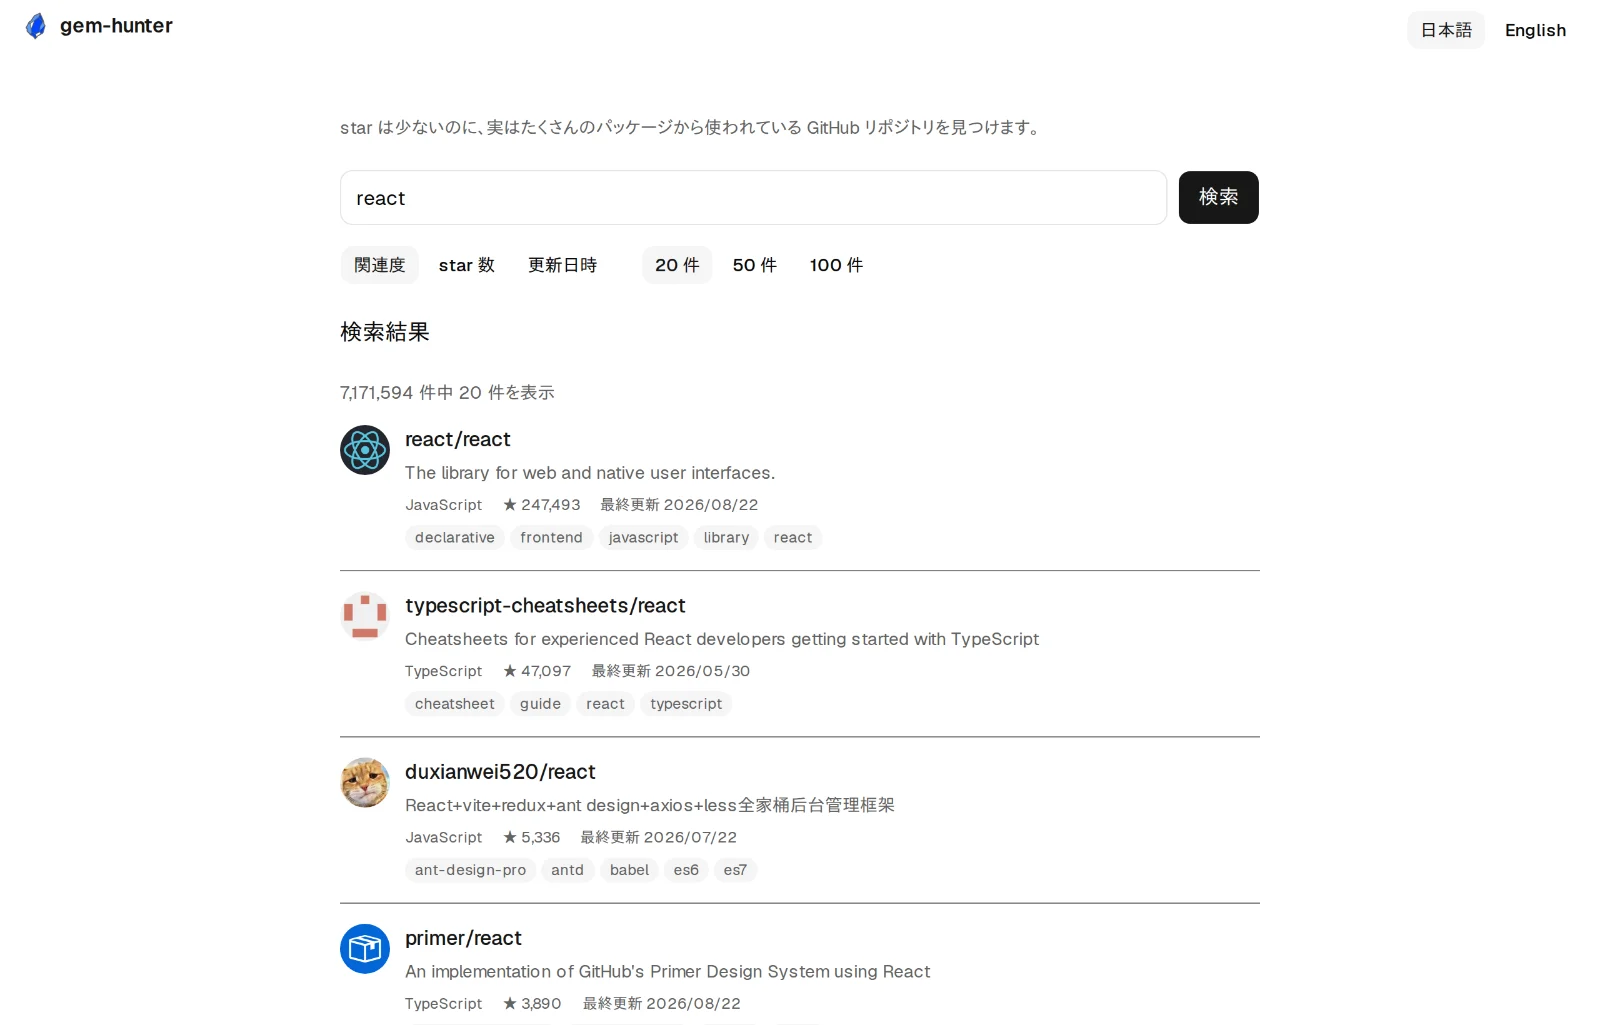
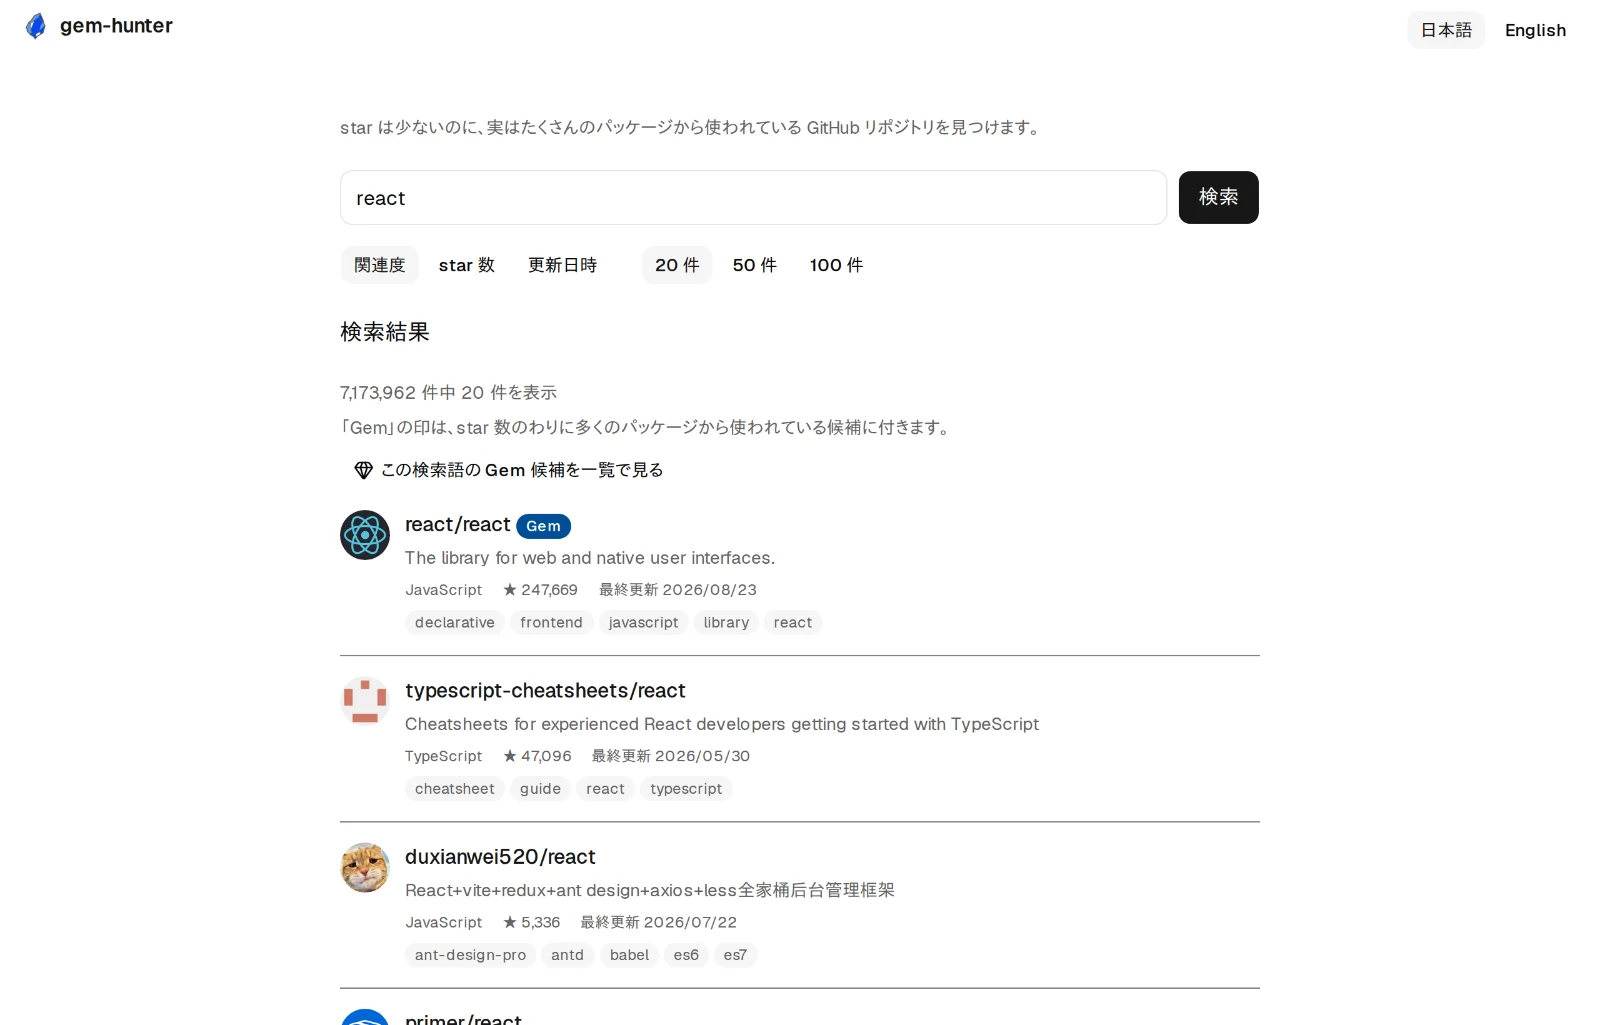
publish: LP を現行仕様へ追随させた内容を反映する (#523)

Changed region(s): [[0.1875, 0.3746, 0.6562, 1.0]]

diff --git a/index.html b/index.html
@@ -150,12 +150,13 @@
                   height="1280"
                   fetchpriority="high"
                   decoding="async"
-                  alt="スマートフォンで表示した gem-hunter の検索結果画面。「react」で検索し、検索欄の下に関連度・star 数・更新日時の並び替えと 20 / 50 / 100 件の表示件数の切り替えが並び、その下にリポジトリ名・説明・主要言語・star 数・最終更新日・トピックが縦に積み重なっている。"
+                  alt="スマートフォンで表示した gem-hunter の検索結果画面。「react」で検索し、検索欄の下に関連度・star 数・更新日時の並び替えと 20 / 50 / 100 件の表示件数の切り替えが並び、その下に「この検索語の Gem 候補を一覧で見る」導線がある。react/react のカードにはオーナーのアバター画像と Gem バッジが付き、リポジトリ名・説明・主要言語・star 数・最終更新日・トピックが縦に積み重なっている。"
                 />
               </div>
             </figure>
             <p class="shot-caption">
               スマートフォンで「react」を検索した実際の画面です（検索結果は GitHub API から取得しています）。
+              一部のカードに付いている Gem の印については<a href="#how">「仕組み」</a>で説明しています。
             </p>
           </div>
 
@@ -199,7 +200,7 @@
                   height="1025"
                   loading="lazy"
                   decoding="async"
-                  alt="PC の画面幅で表示した gem-hunter の検索結果画面。「react」で検索し、リポジトリ名・説明・主要言語・star 数・最終更新日・トピックが一覧で並んでいる。上部には関連度・star 数・更新日時の並び替えと、20 / 50 / 100 件の表示件数の切り替えがある。"
+                  alt="PC の画面幅で表示した gem-hunter の検索結果画面。「react」で検索し、各カードにオーナーのアバター画像とリポジトリ名が並び、react/react のカードに Gem バッジが付いている。上部には関連度・star 数・更新日時の並び替え、20 / 50 / 100 件の表示件数の切り替え、「この検索語の Gem 候補を一覧で見る」導線がある。"
                 />
               </div>
             </figure>
@@ -270,6 +271,16 @@
             >（ICSE 2026）ほかの調査まとめ。実例に挙げた <code>debug_inspector</code> は RubyGems の
             パッケージで、25 star に対し 111,000 以上の OSS プロジェクトから依存されています。
           </p>
+
+          <img
+            class="why-divider reveal"
+            src="./assets/img/why-divider.webp"
+            width="640"
+            height="179"
+            loading="lazy"
+            decoding="async"
+            alt=""
+          />
         </div>
       </section>
 
@@ -309,7 +320,7 @@
           </ol>
 
           <div class="formula reveal">
-            <h3 class="formula-heading">「今日の Gem」の並び順</h3>
+            <h3 class="formula-heading">Gem Index の並び順</h3>
             <p class="formula-expr">Gem Index = 被依存数の順位 − star の順位</p>
             <p>
               どちらも <a href="https://ecosyste.ms/">Ecosyste.ms</a> の
@@ -319,8 +330,12 @@
               Gem Index は −6.9。実際のデータでもこのあたりが最上位帯です。
             </p>
             <p>
-              この値が小さい上位 60 件を母集団に、日付から決まる順序で毎日 5 件を選び、
-              その 5 件をこの値の順に並べています。同じ日なら、誰が見ても同じ 5 件です。
+              この値は 3 つの場所で使っています。「今日の Gem」では、この値が小さい上位 60 件を
+              母集団に、日付から決まる順序で毎日 5 件を選び、その 5 件をこの値の順に並べています。
+              検索結果では、この候補プールに載っているカードに Gem バッジを付けます
+              （検索結果の並び順は変えません）。検索語から開ける「Gem 候補を一覧で見る」画面では、
+              集まった候補をこの値の順に並べます（一覧の中身は全件が Gem 候補なので、
+              キーワード検索と違って順位が意味を持ちます）。
             </p>
             <p>
               健全性スコア（OpenSSF criticality_score など）は
@@ -393,6 +408,36 @@
               </ul>
             </div>
 
+            <div class="tile span-2 tile-wide">
+              <h3>
+                <svg class="icon" viewBox="0 0 24 24" fill="none" stroke="currentColor" stroke-width="2" aria-hidden="true">
+                  <path d="M20.6 12.3 12 20.9a1.5 1.5 0 0 1-2.1 0l-7-7A1.5 1.5 0 0 1 3 12.8V5.5A2.5 2.5 0 0 1 5.5 3h7.3c.4 0 .8.2 1 .4l6.8 6.8a1.5 1.5 0 0 1 0 2.1Z" stroke-linejoin="round" />
+                  <circle cx="8" cy="8.5" r="1.3" />
+                </svg>
+                検索結果でも Gem に気づける
+              </h3>
+              <p>
+                キーワード検索の結果のうち、被依存数のわりに star が少ないカードには
+                Gem バッジが付きます。<strong>並び順は変わりません</strong>。
+                バッジが付かないことは低評価を意味しません。
+              </p>
+              <p class="tile-datum">
+                検索結果の上にある「この検索語の Gem 候補を一覧で見る」から、
+                その検索語に合う Gem 候補だけを Gem Index 順に見られます
+                <span class="tile-datum-note">（対象は 12 のパッケージレジストリ・約 6.2 万リポジトリ）</span>
+              </p>
+              <figure class="tile-figure">
+                <img
+                  src="./assets/img/shot-gems.webp"
+                  width="1100"
+                  height="550"
+                  loading="lazy"
+                  decoding="async"
+                  alt="gem-hunter の Gem 候補一覧画面の上部。見出し「「react」の Gem」と「669 件」の下に、Gem Index が小さい順（過小評価されている順）で上位 4 件のカードが並び、各カードにオーナーのアバター画像・リポジトリ名・パッケージ名・レジストリ名・star 数・利用パッケージ数・Gem Index の数値が表示されている。"
+                />
+              </figure>
+            </div>
+
             <div class="tile">
               <h3>
                 <svg class="icon" viewBox="0 0 24 24" fill="none" stroke="currentColor" stroke-width="2" aria-hidden="true">
@@ -404,6 +449,25 @@
                 star / watcher / fork / open issue と README 本文を同じ画面で読めます。
                 独立した URL なので、共有もブラウザバックも素直に動きます。
               </p>
+            </div>
+
+            <div class="tile span-3 tile-wide">
+              <h3>
+                <svg class="icon" viewBox="0 0 24 24" fill="none" stroke="currentColor" stroke-width="2" aria-hidden="true">
+                  <path d="M12 3l7 3v5c0 4.2-2.9 7.6-7 8.7-4.1-1.1-7-4.5-7-8.7V6l7-3Z" stroke-linejoin="round" />
+                </svg>
+                渡すものが何もない
+              </h3>
+              <p>
+                アカウント登録は要りません。広告も、アクセス解析のトラッキングも入れていません。
+                検索したキーワードをサーバーに保存する仕組みも持っていません
+                （データベースを 1 つも接続していないので、保存しようがない、が正確です）。
+              </p>
+              <ul class="tag-list">
+                <li>登録なし</li>
+                <li>トラッキングなし</li>
+                <li>保存なし</li>
+              </ul>
             </div>
 
             <div class="tile">
@@ -437,25 +501,6 @@
               </p>
             </div>
 
-            <div class="tile span-3 tile-wide">
-              <h3>
-                <svg class="icon" viewBox="0 0 24 24" fill="none" stroke="currentColor" stroke-width="2" aria-hidden="true">
-                  <path d="M12 3l7 3v5c0 4.2-2.9 7.6-7 8.7-4.1-1.1-7-4.5-7-8.7V6l7-3Z" stroke-linejoin="round" />
-                </svg>
-                渡すものが何もない
-              </h3>
-              <p>
-                アカウント登録は要りません。広告も、アクセス解析のトラッキングも入れていません。
-                検索したキーワードをサーバーに保存する仕組みも持っていません
-                （データベースを 1 つも接続していないので、保存しようがない、が正確です）。
-              </p>
-              <ul class="tag-list">
-                <li>登録なし</li>
-                <li>トラッキングなし</li>
-                <li>保存なし</li>
-              </ul>
-            </div>
-
           </div>
         </div>
       </section>
@@ -474,9 +519,9 @@
 
           <div class="facts reveal">
             <div class="fact">
-              <b>682 ケース</b>
+              <b>1,061 ケース</b>
               <span>
-                ユニット・結合 593 / E2E 89。<a
+                ユニット・結合 954 / E2E 107。<a
                   href="https://github.com/kai-kou/gem-hunter/blob/main/docs/04_development/testing-strategy.md"
                   >テスト戦略</a
                 >
@@ -521,8 +566,10 @@
                 あります。少し時間をおいてから試してください。
               </li>
               <li>
-                Gem Index は「今日の Gem」の並び順にだけ使っています。
-                キーワード検索の結果は GitHub の検索結果をそのまま並べています。
+                Gem Index は「今日の Gem」と「Gem 候補の一覧」（検索結果から開けます）の並び順、
+                それに検索結果カードの Gem バッジの判定に使っています。キーワード検索の結果自体は
+                GitHub の検索結果をそのまま並べており、バッジが付いても並び順は変わりません。
+                Gem の印は限られたデータにもとづく参考値なので、優劣の評価ではありません。
               </li>
             </ul>
           </div>
@@ -541,9 +588,20 @@
             <details open>
               <summary>GitHub の検索と何が違いますか？</summary>
               <div class="answer">
-                キーワード検索そのものは GitHub の検索結果です。違うのは「今日の Gem」で、
-                <code>stars:</code> のような条件では書けない
-                「使われ方に対して star が少ない」という観点を足しています。
+                キーワード検索の並び順そのものは GitHub の検索結果です。足しているのは
+                <code>stars:</code> のような条件では書けない「使われ方に対して star が少ない」
+                という観点で、検索結果カードの Gem の印、キーワードなしで開く「今日の Gem」、
+                検索語から絞り込む「Gem 候補の一覧」の 3 か所に出します。並び順を変えるのは
+                「今日の Gem」と「Gem 候補の一覧」だけで、キーワード検索結果の並び順は変えません。
+              </div>
+            </details>
+            <details>
+              <summary>検索結果に付いている Gem の印は何ですか？</summary>
+              <div class="answer">
+                被依存数のわりに star が少ないリポジトリの目印です。12 のパッケージレジストリから
+                集めた候補プールに載っているカードに付き、検索結果の並び順は変えません。
+                限られたデータにもとづく参考値なので、付いていないことが低評価という意味には
+                なりません。
               </div>
             </details>
             <details>
@@ -559,8 +617,9 @@
               <summary>対応しているエコシステムは何ですか？</summary>
               <div class="answer">
                 キーワード検索は GitHub 全体が対象で、言語もエコシステムも問いません。
-                一方「今日の Gem」の被依存数は、いまのところ
-                <strong>npm（npmjs.org）のパッケージだけ</strong>を対象にしています。
+                一方「今日の Gem」と Gem の印が使う被依存数は、
+                npm・PyPI・crates.io・RubyGems・Packagist・Go Modules・Maven・CRAN・Hex・CPAN・NuGet・pub.dev の
+                <strong>12 のパッケージレジストリ（約 6.2 万リポジトリ）</strong>を対象にしています。
               </div>
             </details>
             <details>

diff --git a/assets/styles.css b/assets/styles.css
@@ -583,6 +583,16 @@ summary {
   margin-bottom: 10px;
 }
 
+/* ---- why セクションの区切り装飾（文字なし・alt=""） ---- */
+
+.why-divider {
+  display: block;
+  width: 100%;
+  max-width: 320px;
+  height: auto;
+  margin: clamp(20px, 4vw, 32px) auto;
+}
+
 /* ---- 対比（star vs 被依存数） ---- */
 
 .compare {

diff --git a/README.md b/README.md
@@ -36,6 +36,7 @@ git push origin gh-pages
 | `assets/styles.css` | スタイル。トークンは `app/globals.css` のセマンティックトークンと同値 |
 | `assets/fonts/geist-latin.woff2` | 本文フォント Geist（latin サブセット・SIL OFL 1.1。`Geist-OFL.txt` を同梱） |
 | `assets/img/shot-*.webp` | アプリの実画面のスクリーンショット |
+| `assets/img/why-divider.webp` | `why` セクションの装飾区切り画像（gpt-image-2 生成・実画面ではない。生成手順は `tools/ui-assets/README.md`） |
 | `assets/img/ogp.png` | OGP 画像（1200×630） |
 | `.nojekyll` | Jekyll ビルドを止める（`_` 始まりのパスが消えるのを防ぐ） |
 
@@ -79,10 +80,10 @@ python3 -m http.server 8098 --directory site
 # 1. 標準ゲート（PR 前の唯一の機械的証跡。LP 静的検査 check_site.py もここに含まれる）
 npm run check
 
-# 2. 数値の裏取り（LP に焼いてある「682 ケース」の内訳）
-npx vitest run              # → `Tests  593 passed` であること
-npx playwright test --list  # → 末尾 `Total: 89 tests` であること
-                            #    593 + 89 = 682 が index.html の「682 ケース」と一致する
+# 2. 数値の裏取り（LP に焼いてある「1,061 ケース」の内訳）
+npx vitest run              # → `Tests  954 passed` であること
+npx playwright test --list  # → 末尾 `Total: 107 tests` であること
+                            #    954 + 107 = 1,061 が index.html の「1,061 ケース」と一致する
 ls docs/adr/[0-9]*.md | wc -l   # → 15（index.html の「ADR 15 本」と一致。check_site.py も検査する）
 ```
 
@@ -126,3 +127,14 @@ node tools/capture_lp_screenshots.mjs
 - スクリプトは撮影後に **`index.html` の `width` / `height` と出力の実寸を突き合わせ、
   食い違っていれば非ゼロ終了する**（属性の更新漏れ = CLS を機械で止める）。
   同じ照合は `tools/check_site.py` にも入っているので、撮り直さない PR でも守られる
+- 本番を対象に撮るときは `LP_SHOT_BASE=https://gem-hunter.kinamocchi-tech.workers.dev` を明示する。
+  🔴 **本番直叩きは共有 API レート枠を消費する副作用があるため、乱用しない**
+- 🔴 `LP_SHOT_FETCH_VIA_CURL=1`（既定 off）は **直接 HTTPS が通らないサンドボックスでの回避策**
+  （恒久のベストプラクティスではない）。on にすると全リクエストを `curl` 経由で取得して差し替える
+- 🔴 **撮影スクリプトは `SHOTS` 全件を撮り直す** ため、1 枚だけ更新したいときも `shot-digest.webp`
+  （「今日の Gem」＝日替わりで中身が変わるカード）まで巻き込んで撮り直してしまう。
+  `shot-digest` を撮り直した場合は、**`index.html` の `tile-datum` の数値（1 位 / 2 位のパッケージ名・
+  利用パッケージ数・star 数）と `alt` を実データに合わせて更新すること**（撮影スクリプトは寸法しか
+  照合しないため、本文・alt と画像の中身が食い違っても機械では止まらない）。逆に他のショットだけを
+  更新したく `shot-digest` の日替わりデータを巻き込みたくない場合は、撮影後に
+  `git checkout origin/main -- site/assets/img/shot-digest.webp` で当該ファイルだけ戻す
